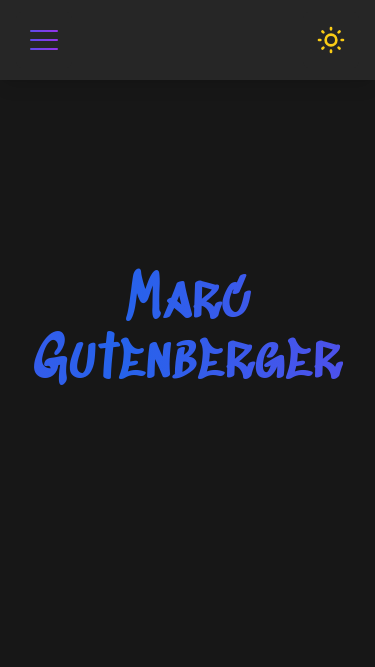
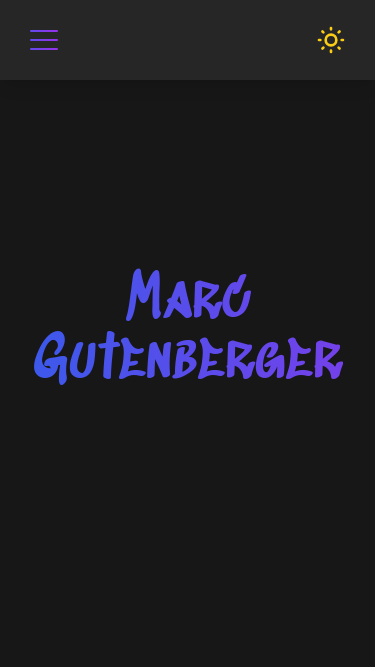
search sort and filter!!

Changed region(s): [[0.2053, 0.4798, 0.9093, 0.5697], [0.3227, 0.3898, 0.6747, 0.4798]]

diff --git a/islands/SheetsDisplay.tsx b/islands/SheetsDisplay.tsx
@@ -1,0 +1,178 @@
+import { Sheet } from '@/utils/sheets.ts';
+import { useEffect } from 'preact/hooks';
+import { Link } from '@/components/Link.tsx';
+import { asset, IS_BROWSER } from '$fresh/runtime.ts';
+
+// God dammit typescript is such a useless fucking joke of a language
+enum SortByOpt {
+	TitleAZ = 'Title A to Z',
+	TitleZA = 'Title Z to A',
+	DateNewOld = 'Date New to Old',
+	DateOldNew = 'Date Old to New',
+}
+
+const sortByOpts = [
+	SortByOpt.TitleAZ,
+	SortByOpt.TitleZA,
+	SortByOpt.DateNewOld,
+	SortByOpt.DateOldNew,
+];
+
+/**
+ * Sorts an array of sheets with a specified sort function
+ */
+function sortSheets(array: Sheet[], sortBy: SortByOpt): Sheet[] {
+	function mmddyyyyStrToDate(str: string): Date {
+		const [mm, dd, yyyy] = str.split('-').map(Number);
+		return new Date(mm, dd - 1, yyyy);
+	}
+	switch (sortBy) {
+		case SortByOpt.TitleAZ:
+			return array.sort((a, b) => a.title.localeCompare(b.title));
+		case SortByOpt.TitleZA:
+			return array.sort((a, b) => a.title.localeCompare(b.title)).reverse();
+		case SortByOpt.DateNewOld:
+			return array.sort((a, b) =>
+				mmddyyyyStrToDate(a.date).getDay() - mmddyyyyStrToDate(b.date).getDay()
+			);
+		case SortByOpt.DateOldNew:
+			return array.sort((a, b) =>
+				mmddyyyyStrToDate(a.date).getDay() - mmddyyyyStrToDate(b.date).getDay()
+			).reverse();
+	}
+
+	return [];
+}
+
+interface SheetsDisplayProps {
+	sheets: Sheet[];
+	tags: string[];
+	sortBy: SortByOpt;
+	filterBy: string[];
+}
+
+function SheetsDisplay(props: SheetsDisplayProps) {
+	let sheets: Sheet[] = [];
+
+	const filteredSheets = props.sheets.filter((sheet) => {
+		if (props.filterBy.length === 0) return true;
+		return props.filterBy.some((tag) => sheet.tags?.includes(tag));
+	});
+	const sortedSheets = sortSheets(filteredSheets, props.sortBy);
+	sheets = sortedSheets;
+
+	function handleSortChange() {
+		if (!document.getElementById('filterForm')) {
+			console.error(
+				`Error: Form did not render properly:\n    ${
+					document.getElementById('filterForm')
+				}`,
+			);
+			return;
+		}
+
+		// Automatically sumbit the form when the input changes
+		(document.getElementById('filterForm') as HTMLFormElement).submit();
+	}
+
+	function handleFilterChange() {
+		if (!document.getElementById('filterForm')) {
+			console.error(
+				`Error: Form did not render properly:\n    ${
+					document.getElementById('filterForm')
+				}`,
+			);
+			return;
+		}
+
+		// Automatically sumbit the form when the input changes
+		(document.getElementById('filterForm') as HTMLFormElement).submit();
+	}
+
+	if (!IS_BROWSER) return <></>;
+
+	return (
+		<>
+			<form
+				id='filterForm'
+				// onSubmit={handleSubmit}
+				// method='post'
+				className='flex flex-row md:flex-col gap-4 border-2 border-gray-700 dark:border-gray-300 m-4 p-4 rounded-lg w-auto md:w-1/4 lg:w-1/5 h-42 md:h-auto'
+			>
+				<div className='flex flex-col w-1/2 md:w-auto'>
+					<h2 className='mb-4 font-bold text-2xl animation-gradient-text'>
+						Sort
+					</h2>
+					<ul className='flex flex-col h-32 md:h-auto overflow-x-none overflow-y-auto'>
+						{sortByOpts.map((sortBy) => (
+							<li class='flex items-center hover:bg-gray-200 dark:hover:bg-gray-800 p-2 rounded'>
+								<label class='rounded w-full font-medium'>
+									<input
+										type='radio'
+										checked={sortBy === props.sortBy}
+										name='sortBy'
+										onChange={handleSortChange}
+										value={sortBy}
+										class='rounded w-4 h-4 text-purple-600 accent-purple-600 me-2'
+									/>
+									{sortBy}
+								</label>
+							</li>
+						))}
+					</ul>
+				</div>
+				<div className='flex flex-col w-1/2 md:w-auto'>
+					<h2 className='mb-4 font-bold text-2xl animation-gradient-text'>
+						Filter
+					</h2>
+					<ul class='flex flex-col h-32 md:h-auto overflow-x-none overflow-y-auto'>
+						{props.tags.map((tag) => (
+							<li class='flex items-center hover:bg-gray-200 dark:hover:bg-gray-800 p-2 rounded'>
+								<label class='rounded w-full font-medium'>
+									<input
+										type='checkbox'
+										name='tags'
+										checked={props.filterBy.includes(tag)}
+										value={tag}
+										onChange={handleFilterChange}
+										class='rounded w-4 h-4 text-purple-600 accent-purple-600 me-2'
+									/>
+									{tag}
+								</label>
+							</li>
+						))}
+					</ul>
+				</div>
+			</form>
+			<section className='flex flex-wrap mt-8 md:mt-0 w-auto md:w-3/4 lg:w-4/5'>
+				{/* <- calculated m-4 */}
+				{sheets.map((sheet) => (
+					<span className='p-4 md:w-1/2 xl:w-1/3'>
+						<div className='group'>
+							<div className='border-2 border-gray-800 group-hover:border-purple-500 dark:border-gray-300 p-4 rounded-lg text-gray-800 dark:text-gray-200 transition'>
+								<h3 className='font-bold text-4xl text-center md:text-3xl'>
+									{sheet.title}
+								</h3>
+								<Link internal href={`/sheets/${sheet.id}`}>
+									<img
+										alt={sheet.title}
+										className='group-hover:scale-[1.025] border-2 border-gray-700 dark:border-gray-800 my-4 rounded-md transition ease'
+										src={asset(
+											`images/sheet_images/${sheet.id}.png`,
+										)}
+									/>
+								</Link>
+								<p className='text-xl'>
+									{sheet.description}
+								</p>
+							</div>
+						</div>
+					</span>
+				))}
+			</section>
+		</>
+	);
+}
+
+export default SheetsDisplay;
+export { SortByOpt, sortByOpts };

diff --git a/routes/sheets.tsx b/routes/sheets.tsx
@@ -5,23 +5,43 @@ import { Footer } from '@/components/Footer.tsx';
 import { Head } from '@/components/Head.tsx';
 import { NoScript } from '@/components/NoScript.tsx';
 import { listSheets, Sheet } from '@/utils/sheets.ts';
-import { asset } from '$fresh/runtime.ts';
-import { Link } from '@/components/Link.tsx';
+import SheetsDisplay, { SortByOpt } from '@/islands/SheetsDisplay.tsx';
 
 interface Data {
 	sheets: Sheet[];
+	tags: string[];
+	sortBy: SortByOpt;
+	filterBy: string[];
 }
 
 export const handler: Handlers<Data> = {
 	async GET(_req, ctx) {
 		const sheets = await listSheets();
-		return ctx.render({ ...ctx.state, sheets });
+		const tags: string[] = [];
+		// create array of all UNIQUE tags
+		sheets.forEach((sheet) => {
+			sheet.tags?.forEach((tag) => {
+				if (!tags.includes(tag)) {
+					tags.push(tag);
+				}
+			});
+		});
+
+		// get the sort and filter information from the url
+		const sortBy = (ctx.url.searchParams.get('sortBy') as SortByOpt) ?? SortByOpt.TitleAZ;
+		const filterBy = ctx.url.searchParams.getAll('tags');
+
+		return ctx.render({
+			...ctx.state,
+			sheets,
+			tags,
+			sortBy,
+			filterBy,
+		});
 	},
 };
 
 export default function SheetsPage(props: PageProps<Data>) {
-	const { sheets } = props.data;
-
 	return (
 		<>
 			<Head PageProps={props} />
@@ -31,35 +51,20 @@ export default function SheetsPage(props: PageProps<Data>) {
 			<NoScript />
 			<main
 				id='main-content'
-				className='bg-gray-100 dark:bg-gray-900 p-6 pt-20 text-gray-800 dark:text-gray-200 transition'
+				className='bg-gray-100 dark:bg-gray-900 pt-20 text-gray-800 dark:text-gray-200 transition'
 			>
-				<section className='flex flex-wrap mx-auto md:px-10 py-40 container'>
-					<h2 className='flex justify-center items-center mb-20 w-full font-semibold text-5xl text-center md:text-6xl lg:text-7xl'>
+				<section className='flex flex-wrap mx-auto py-40 container'>
+					<h1 className='flex justify-center items-center mb-20 w-full font-semibold text-5xl text-center md:text-6xl lg:text-7xl'>
 						Beats & Sheets
-					</h2>
+					</h1>
 
-					<div className='flex flex-wrap -m-4'>
-						{sheets.map((sheet) => (
-							<span className='p-4 md:w-1/2 xl:w-1/3'>
-								<div className='group'>
-									<div className='border-2 border-gray-700 group-hover:border-purple-500 dark:border-gray-300 p-4 rounded-lg transition'>
-										<h3 className='font-bold text-4xl text-center md:text-3xl'>
-											{sheet.title}
-										</h3>
-										<Link internal href={`/sheets/${sheet.id}`}>
-											<img
-												alt={sheet.title}
-												className='group-hover:scale-[1.025] my-4 rounded-md transition ease'
-												src={asset(`images/sheet_images/${sheet.id}.png`)}
-											/>
-										</Link>
-										<p className='text-xl'>
-											{sheet.description}
-										</p>
-									</div>
-								</div>
-							</span>
-						))}
+					<div className='flex md:flex-row flex-col md:justify-between place-content-center m-0 p-0'>
+						<SheetsDisplay
+							sheets={props.data.sheets}
+							tags={props.data.tags}
+							sortBy={props.data.sortBy}
+							filterBy={props.data.filterBy}
+						/>
 					</div>
 				</section>
 			</main>

diff --git a/utils/sheets.ts b/utils/sheets.ts
@@ -1,3 +1,5 @@
+import { ComparerToStoredComparer } from 'https://deno.land/x/ts_morph@21.0.1/common/ts_morph_common.js';
+
 /**
  * Data type for a sheet
  */
@@ -14,6 +16,14 @@ interface Sheet {
 	 * Brief description
 	 */
 	description: string;
+	/**
+	 * Relavant tags
+	 */
+	tags?: string[];
+	/**
+	 * Date of publish
+	 */
+	date: string;
 }
 
 /**
@@ -48,11 +58,15 @@ async function listSheets(): Promise<Sheet[]> {
  * {
  *     "example_id": {
  *         "title": "example_title",
- *         "description": "example_description"
+ *         "description": "example_description",
+ *         "tags": ["example_tag_1", "example_tag_2"],
+ *         "date": "12-31-2021"
  *     },
  *     "example_id_2": {
  *         "title": "example_title_2",
- *         "description": "example_description_2"
+ *         "description": "example_description_2",
+ *         "tags": ["example_tag_1", "example_tag_2"]
+ *         "date": "1-29-1995"
  *     }
  * }
  * ```
@@ -65,12 +79,16 @@ async function listSheets(): Promise<Sheet[]> {
  * {
  *     id: "example_id",
  *     title: "example_title",
- *     description: "example_description"
+ *     description: "example_description",
+ *     tags: ["example_tag_1", "example_tag_2"]
+ *     date: "12-31-2021"
  * },
  * {
  *     id: "example_id_2",
  *     title: "example_title_2",
- *     description: "example_description_2"
+ *     description: "example_description_2",
+ *     tags: ["example_tag_1", "example_tag_2"]
+ *     date: "1-29-1995"
  * }
  * ]
  * ```
@@ -79,11 +97,12 @@ function parseSheets(json: string): Sheet[] {
 	const sheets: Sheet[] = [];
 	const obj = JSON.parse(json);
 	for (const id in obj) {
-		const sheet = obj[id];
 		sheets.push({
 			id,
-			title: sheet.title,
-			description: sheet.description,
+			title: obj[id].title,
+			description: obj[id].description,
+			tags: obj[id].tags,
+			date: obj[id].date,
 		});
 	}
 

diff --git a/routes/sheets/[id].tsx b/routes/sheets/[id].tsx
@@ -33,17 +33,6 @@ export default function ResumePage(props: PageProps<Data>) {
 				id='main-content'
 				className='flex justify-center bg-gray-100 dark:bg-gray-900 p-6 pt-20 text-gray-800 dark:text-gray-200 transition'
 			>
-				<script
-					src='https://deno.land/x/embed_pdf@v1.3.0/mod.js'
-					type='module'
-				/>
-				{
-					/* <embed-pdf
-					className='z-20 rounded-b-lg w-full h-full aspect-[8.5/11] lg:aspect-[8.5/9] xl:aspect-[8.5/7] 2xl:aspect-[8.5/5]'
-					src={asset('/sheets/RCR Rolls (No Sticking).pdf')}
-				>
-				</embed-pdf> */
-				}
 				<iframe
 					className='z-20 rounded-b-lg w-full h-full aspect-[8.5/11] lg:aspect-[8.5/9] xl:aspect-[8.5/7] 2xl:aspect-[8.5/5]'
 					src={asset(

diff --git a/fresh.gen.ts b/fresh.gen.ts
@@ -20,6 +20,7 @@ import * as $sheets from './routes/sheets.tsx';
 import * as $sheets_id_ from './routes/sheets/[id].tsx';
 import * as $Carousel from './islands/Carousel.tsx';
 import * as $MobileNav from './islands/MobileNav.tsx';
+import * as $SheetsDisplay from './islands/SheetsDisplay.tsx';
 import * as $ThemeMode from './islands/ThemeMode.tsx';
 import { type Manifest } from '$fresh/server.ts';
 
@@ -45,6 +46,7 @@ const manifest = {
 	islands: {
 		'./islands/Carousel.tsx': $Carousel,
 		'./islands/MobileNav.tsx': $MobileNav,
+		'./islands/SheetsDisplay.tsx': $SheetsDisplay,
 		'./islands/ThemeMode.tsx': $ThemeMode,
 	},
 	baseUrl: import.meta.url,
